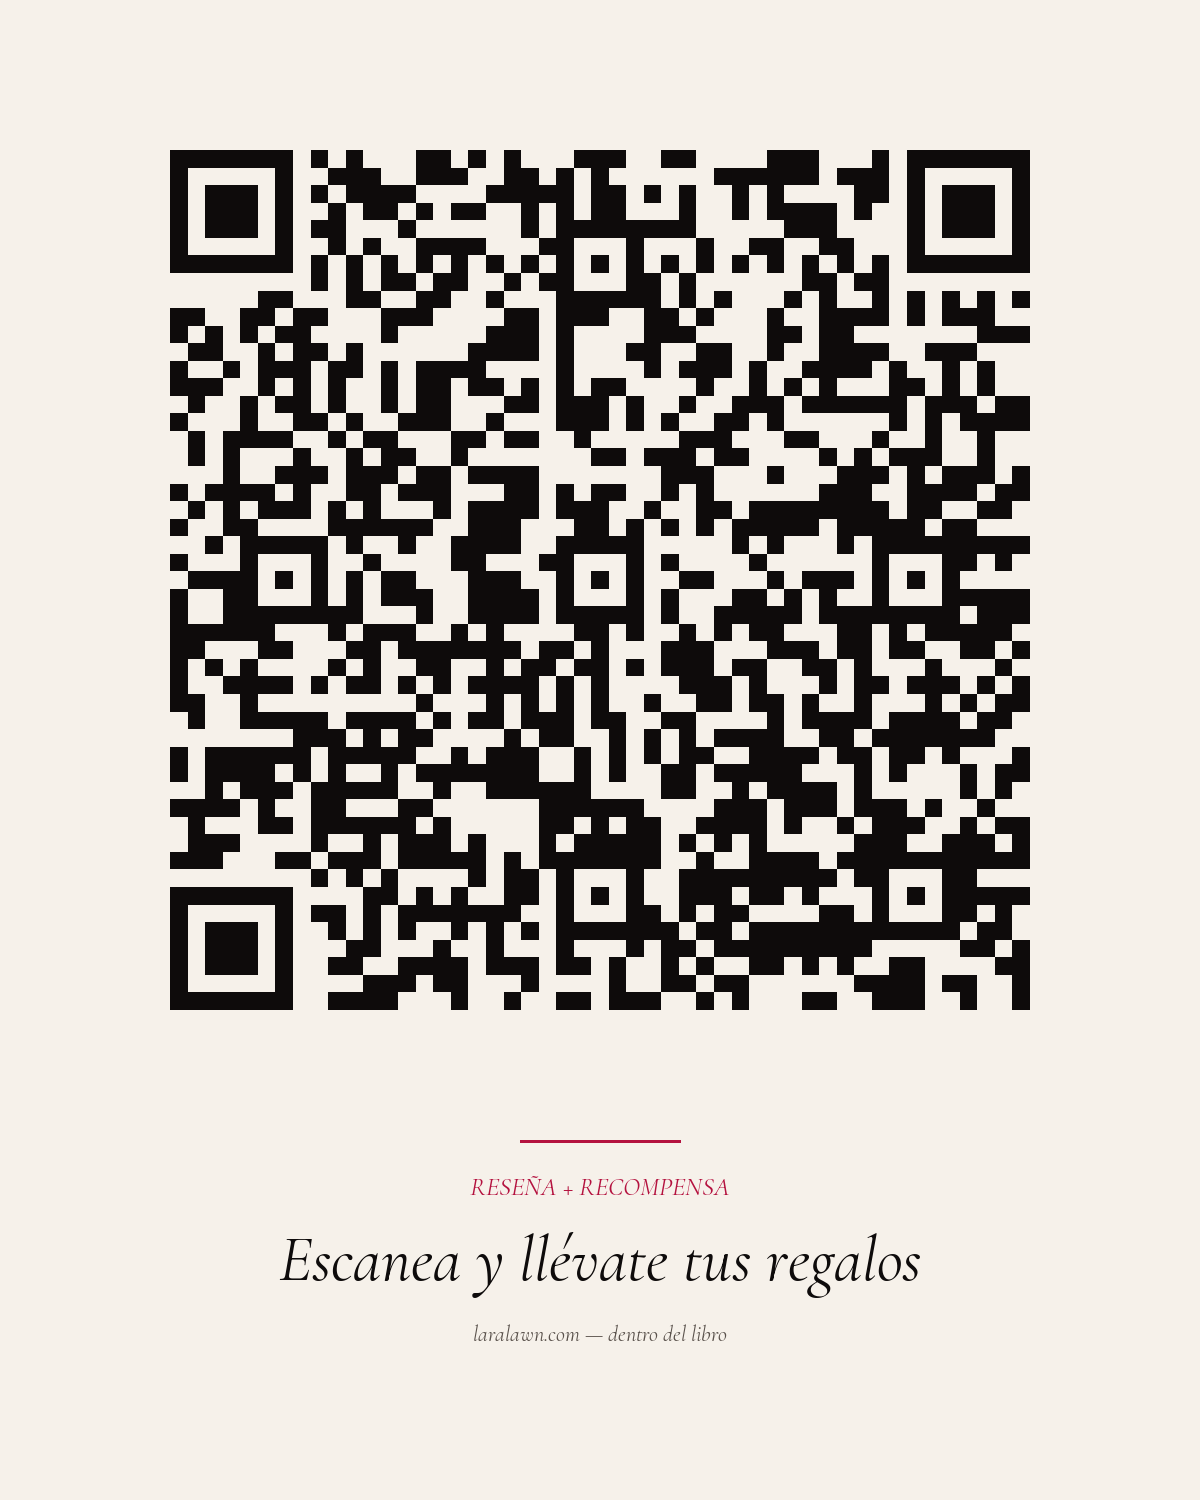
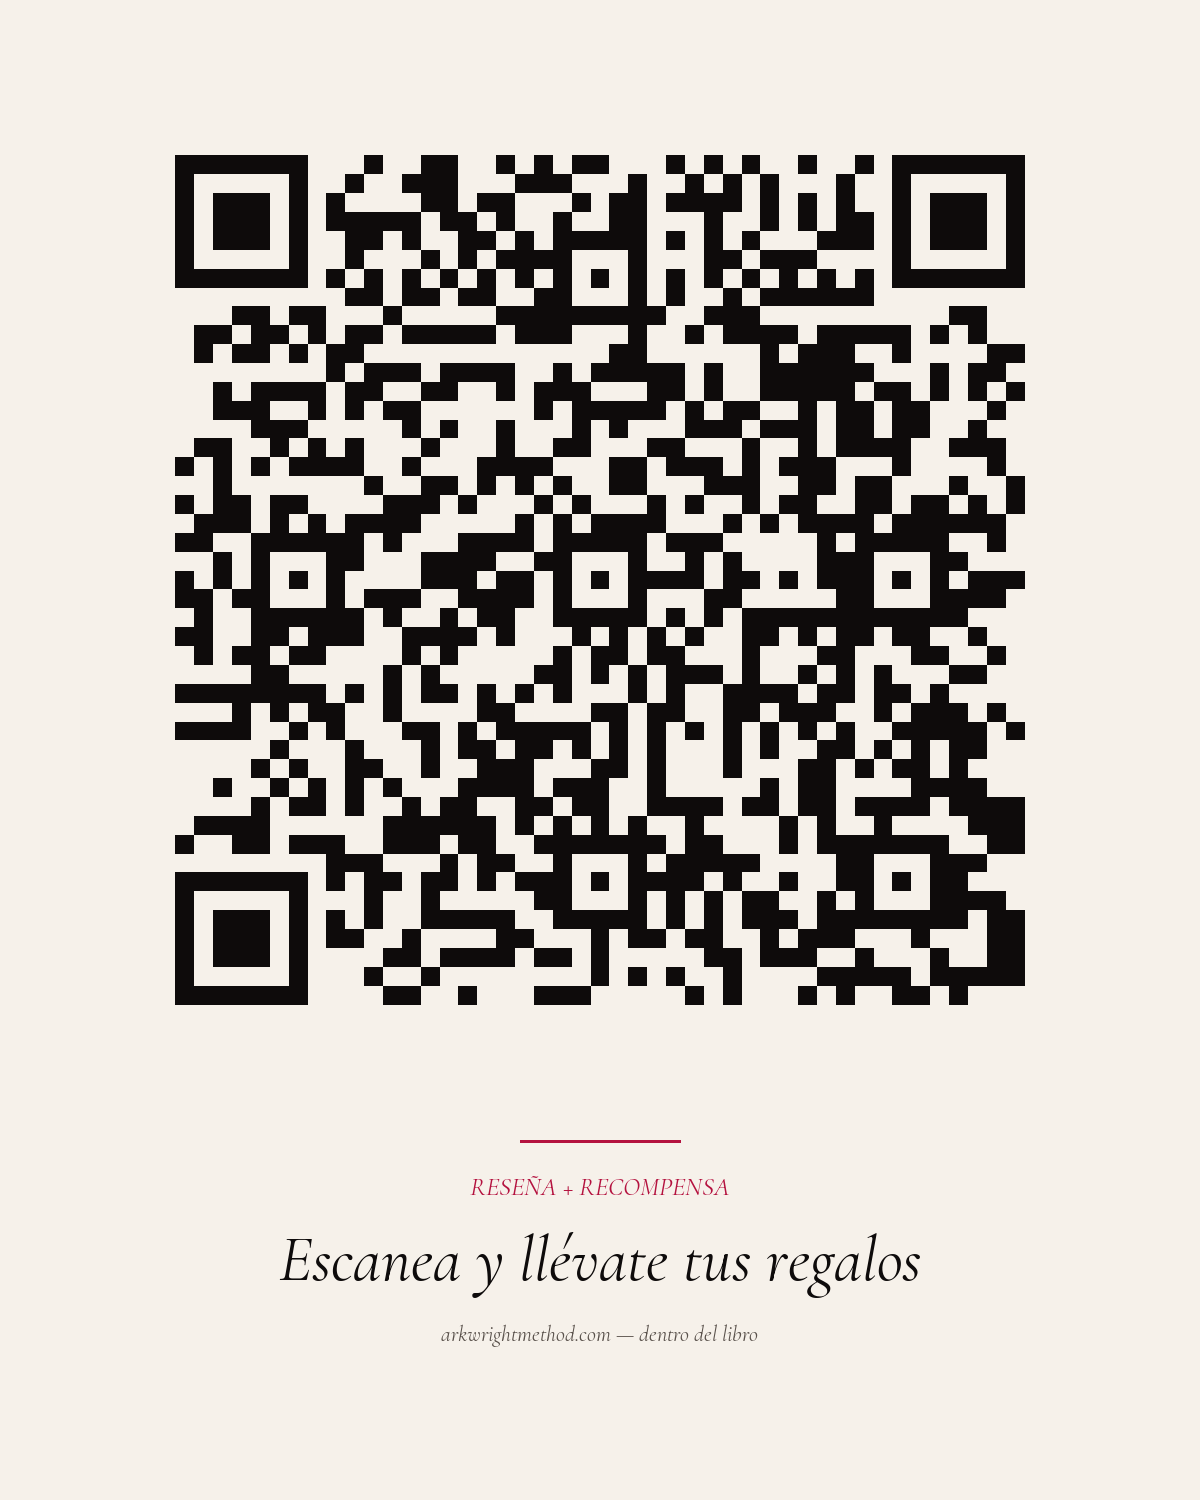
fix(resena): point QRs at arkwrightmethod.com — old laralawn subdomain didn't resolve
Regenerates the three print QR variants with the current production
domain from .env.local. Encoded URL:
  https://arkwrightmethod.com/resena?k=wUbzyElrm3jmOz3XxdNWtxZv

Changed region(s): [[0.1233, 0.092, 0.8633, 0.6747], [0.4008, 0.8893, 0.4317, 0.92]]

diff --git a/qr-print/README.md b/qr-print/README.md
@@ -2,7 +2,7 @@
 
 These PNGs encode the URL:
 ```
-https://libro-nuevo-production.up.railway.app/resena?k=wUbzyElrm3jmOz3XxdNWtxZv
+https://arkwrightmethod.com/resena?k=wUbzyElrm3jmOz3XxdNWtxZv
 ```
 
 Anyone who scans any of these lands on the gated /resena page. They are
